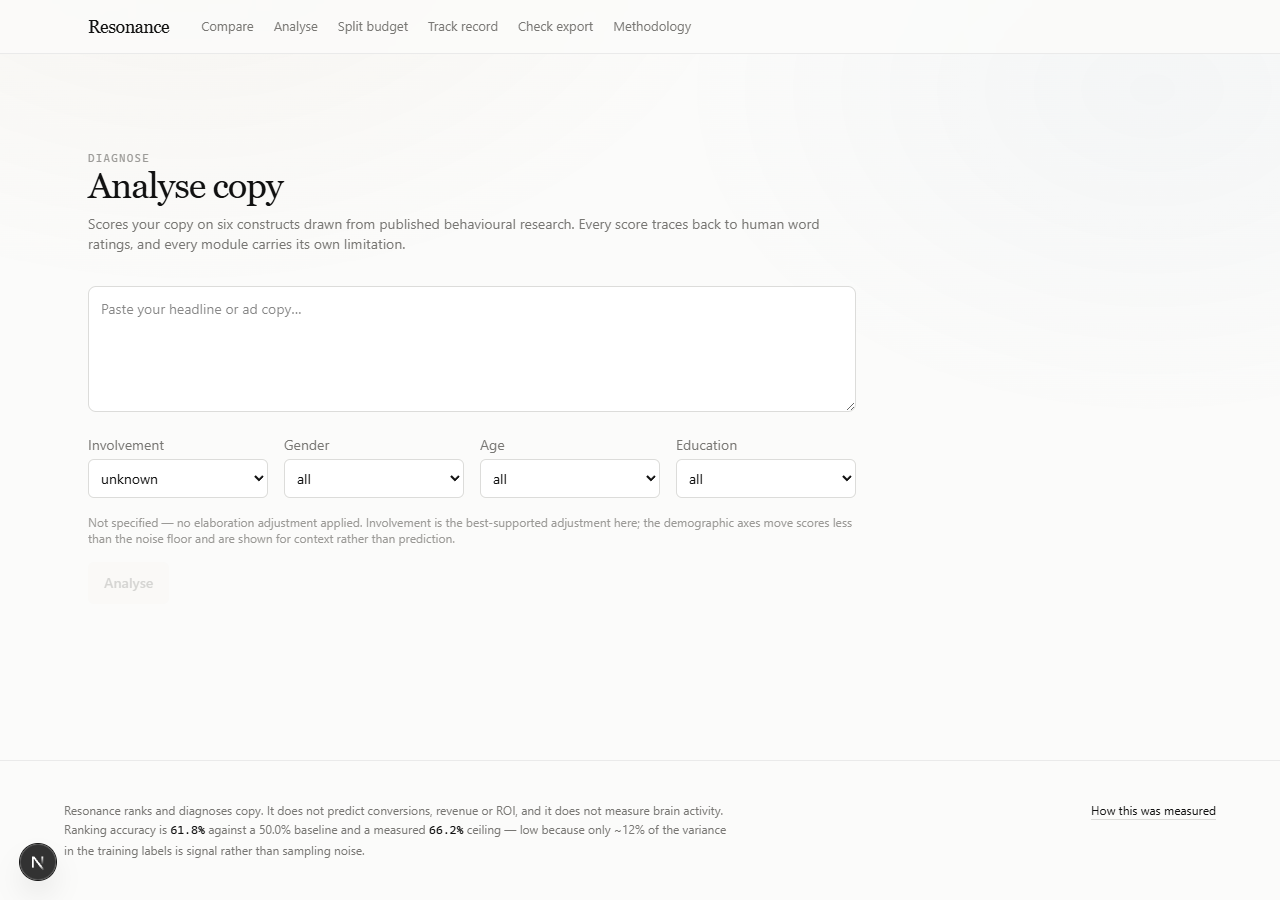
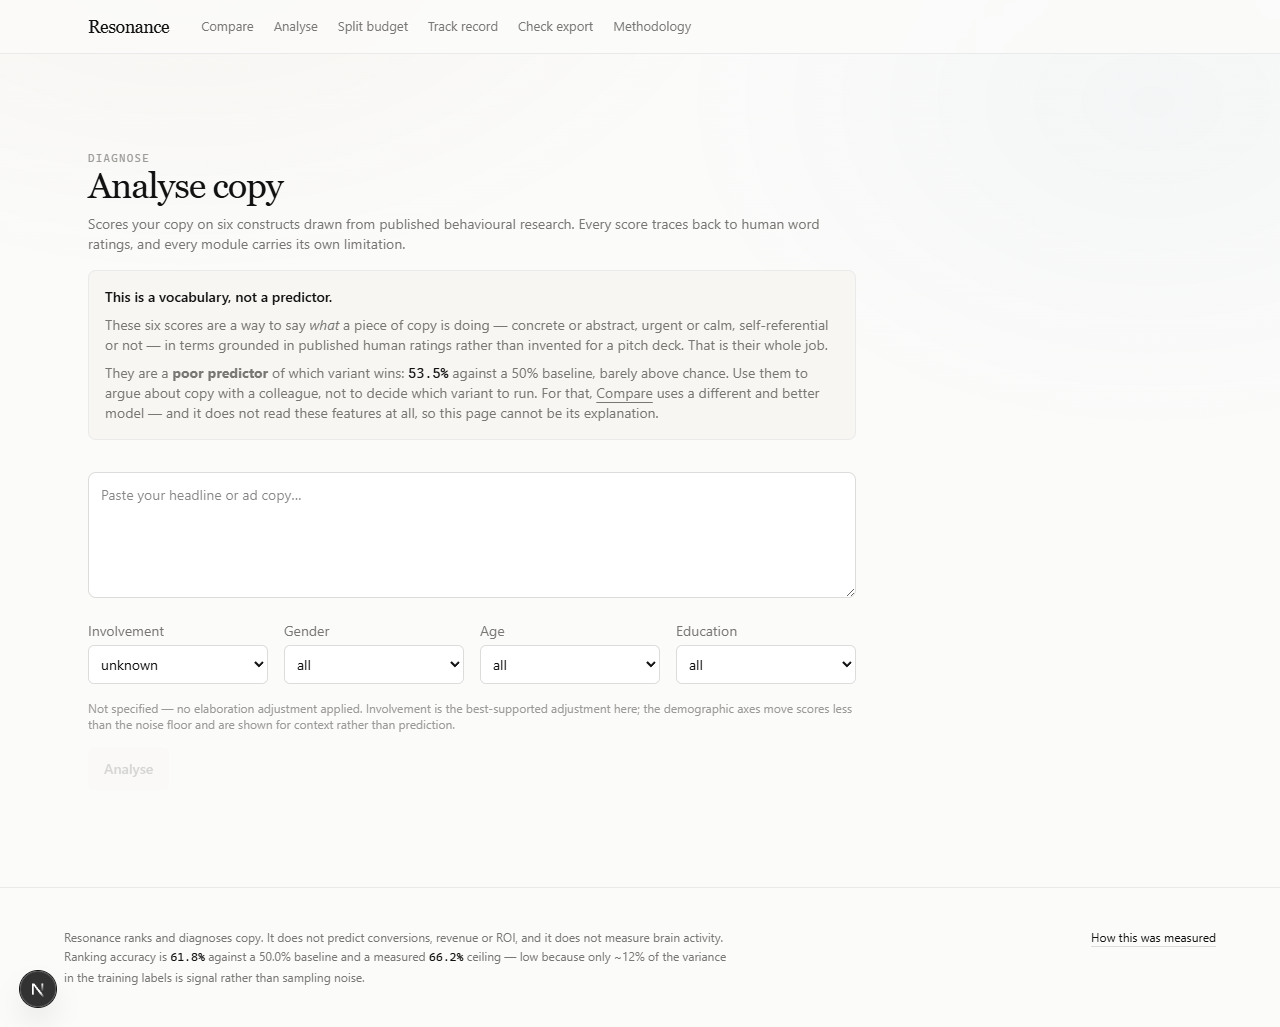
Phase A: say the awkward things where people actually meet them
Three honesty repairs from the council. No model code touched.

FOUND WHILE DOING A1: THE ABSTENTION RATE WAS WRONG. The brief I gave the
council said the app declines ~75% of comparisons. It declines ~50%.
Coverage in the tier table is cumulative, and the model answers at the
moderate tier as well as the high one — I had read "the confident 25%" as
"only answers 25%". Two advisors reasoned from that figure; the Outsider's
"three times out of four it just shrugs" was aimed at a worse product than
the one that exists. The framing critique still holds at 50%, so the fix
went ahead. ABSTAINED in ranker.ts now carries the derivation and the note,
so the mistake is not repeated from the same table.

A1, abstention reframed rather than softened. The guidance no longer opens
with "insufficient confidence" — a phrase that reads as the tool failing —
but with what was actually established: these two are within noise of each
other, so either is defensible and the difference is not worth a test.
Added the counterfactual, measured rather than asserted: forced to guess on
the pairs it declines, the model scores 56.3%, six points above a coin.
That is the honest content of an abstention — not "I have nothing", but
"what I have here is too weak to spend on". Derived by difference from the
dev curve: 14,791 pairs at 62.9% minus 7,397 answered at 69.5% leaves 7,394
declined at 56.3%. The rate is now stated on the home page instead of being
discovered by hitting it.
[…]

diff --git a/resonance/lib/inference/ranker.ts b/resonance/lib/inference/ranker.ts
@@ -241,6 +241,31 @@ export const TIERS: TierSpec[] = [
   { tier: "moderate", minMargin: 0.519, accuracy: 0.6951, coverage: 0.5 },
 ];
 
+/**
+ * The half of comparisons the model declines, and what declining is worth.
+ *
+ * Coverage is CUMULATIVE in the table above: 50% of comparisons clear the
+ * moderate threshold, so the model answers half and declines half. It is not
+ * "answers a quarter" — that is the high tier alone, and confusing the two
+ * understates the product by a factor of two. It was briefly stated that way in
+ * planning and the error is recorded here so it is not repeated.
+ *
+ * `accuracyIfForced` is derived from the same dev curve, by difference:
+ *
+ *     all      14,791 pairs @ 0.6289  ->  9,302 correct
+ *     answered  7,397 pairs @ 0.6951  ->  5,143 correct
+ *     declined  7,394 pairs           ->  4,159 correct  =  0.5626
+ *
+ * That is the number the abstention is worth arguing about. Forced to guess on
+ * the pairs it declines, the model manages 56.3% — six points above a coin, not
+ * zero. Abstaining is not "the model has nothing"; it is "what the model has
+ * here is too weak to spend money on".
+ */
+export const ABSTAINED = {
+  coverage: 0.5,
+  accuracyIfForced: 0.5626,
+} as const;
+
 function classify(margin: number): TierSpec | null {
   for (const t of TIERS) if (margin >= t.minMargin) return t;
   return null;
@@ -263,9 +288,16 @@ export async function rankVariants(texts: string[]): Promise<RankingResult> {
       `this clear-cut the model is right ${(spec.accuracy * 100).toFixed(0)}% of ` +
       `the time — measured, not estimated. Roughly ${(spec.coverage * 100).toFixed(0)}% ` +
       "of comparisons reach this confidence level."
-    : "These variants score too closely to separate. At margins this small the " +
-      "model is near chance, so the honest answer is that we cannot tell them " +
-      "apart — pick on other grounds, or run a live test.";
+    : // Lead with what WAS established. "Insufficient confidence" reads as the
+      // tool failing; "these are within noise of each other" is the same fact
+      // stated as a finding, which is what it actually is.
+      "These two are within noise of each other. The model can separate about " +
+      `${(ABSTAINED.coverage * 100).toFixed(0)}% of comparisons; this is not one ` +
+      "of them, so either choice is defensible and the difference is unlikely " +
+      "to be worth a test. Forced to guess on pairs like these it manages " +
+      `${(ABSTAINED.accuracyIfForced * 100).toFixed(0)}% — better than a coin, ` +
+      "not enough to spend on. Pick on brand, clarity or gut, and put the test " +
+      "budget somewhere it will settle something.";
 
   return {
     ranked,

diff --git a/resonance/app/page.tsx b/resonance/app/page.tsx
@@ -1,6 +1,6 @@
 import Link from "next/link";
 import { PERFORMANCE, PROHIBITED_CLAIMS } from "@/lib/constructs";
-import { TIERS } from "@/lib/inference/ranker";
+import { ABSTAINED, TIERS } from "@/lib/inference/ranker";
 
 /**
  * The pitch.
@@ -205,17 +205,31 @@ export default function Home() {
           </div>
 
           <div className="card p-7 sm:p-8">
-            <span className="tag tag-green self-start">Knows when it knows</span>
+            <span className="tag tag-green self-start">
+              It declines half the time
+            </span>
             <p className="mt-5 text-sm leading-relaxed text-muted">
-              On the{" "}
+              Said here rather than left for you to discover: the model answers
+              about{" "}
+              <span className="numeric text-ink">
+                {Math.round((1 - ABSTAINED.coverage) * 100)}%
+              </span>{" "}
+              of comparisons and declines the other half. On the widest-margin{" "}
               <span className="numeric text-ink">
                 {Math.round(highTier.coverage * 100)}%
               </span>{" "}
-              of comparisons where the margin is widest, accuracy rises to{" "}
-              <span className="numeric text-ink">{pct(highTier.accuracy)}</span>.
-              On the rest it declines to call it. A tool that abstains on the
-              hard cases is worth more than one that guesses confidently on all
-              of them.
+              it is right{" "}
+              <span className="numeric text-ink">{pct(highTier.accuracy)}</span>{" "}
+              of the time.
+            </p>
+            <p className="mt-3 text-sm leading-relaxed text-muted">
+              Declining is a result, not a failure. Forced to guess on the pairs
+              it passes on, it would score{" "}
+              <span className="numeric text-ink">
+                {pct(ABSTAINED.accuracyIfForced)}
+              </span>{" "}
+              — better than a coin, and nowhere near enough to spend a test
+              budget on. Being told which half is which is the point.
             </p>
           </div>
         </div>

diff --git a/resonance/app/analyse/page.tsx b/resonance/app/analyse/page.tsx
@@ -1,6 +1,8 @@
 "use client";
 
+import Link from "next/link";
 import { useState } from "react";
+import { PERFORMANCE } from "@/lib/constructs";
 import type { AnalysisResult, VariantComparison } from "@/lib/analyse";
 
 type ApiResponse =
@@ -86,6 +88,33 @@ export default function AnalysePage() {
           research. Every score traces back to human word ratings, and every
           module carries its own limitation.
         </p>
+
+        {/* Written because a reviewer with no context asked, reasonably, why a
+            53.5% feature that admits it does not explain the ranking ships at
+            all. If the answer cannot be stated in a sentence, the feature
+            should be cut instead. */}
+        <div className="mt-4 rounded-lg border border-rule bg-sunk p-4 text-sm">
+          <p className="font-medium">This is a vocabulary, not a predictor.</p>
+          <p className="mt-2 text-muted">
+            These six scores are a way to say <em>what</em> a piece of copy is
+            doing — concrete or abstract, urgent or calm, self-referential or
+            not — in terms grounded in published human ratings rather than
+            invented for a pitch deck. That is their whole job.
+          </p>
+          <p className="mt-2 text-muted">
+            They are a <strong>poor predictor</strong> of which variant wins:{" "}
+            <span className="numeric text-ink">
+              {(PERFORMANCE.moduleModelAccuracy * 100).toFixed(1)}%
+            </span>{" "}
+            against a 50% baseline, barely above chance. Use them to argue about
+            copy with a colleague, not to decide which variant to run. For that,{" "}
+            <Link href="/compare" className="underline underline-offset-4">
+              Compare
+            </Link>{" "}
+            uses a different and better model — and it does not read these
+            features at all, so this page cannot be its explanation.
+          </p>
+        </div>
       </div>
 
       <section className="space-y-4">

diff --git a/resonance/app/compare/page.tsx b/resonance/app/compare/page.tsx
@@ -105,6 +105,39 @@ export default function ComparePage() {
           the time against a 50% baseline — an edge worth having before you
           spend media budget, not a substitute for testing.
         </p>
+
+        {/* The question a first-time user actually asks, answered where they
+            ask it. The README states the limitation but never answered it, and
+            a limitation without an answer just reads as a disclaimer. */}
+        <details className="mt-4 rounded-lg border border-rule bg-sunk p-4 text-sm">
+          <summary className="cursor-pointer font-medium">
+            That training data is 2013–15 clickbait. Why would it apply to my
+            copy?
+          </summary>
+          <div className="mt-3 space-y-2 text-muted">
+            <p>
+              It might not, and we have not measured whether it does. That is
+              the honest answer.
+            </p>
+            <p>
+              What plausibly carries across is the mechanics — concreteness,
+              specificity, curiosity, how a claim is framed — because those are
+              properties of language rather than of Upworthy. What almost
+              certainly does not carry is the calibration: the score thresholds
+              were fitted to that audience clicking those articles in that
+              decade.
+            </p>
+            <p>
+              So treat the ranking as a prior, not a verdict, and settle it with
+              evidence from your own campaigns.{" "}
+              <Link href="/track" className="underline underline-offset-4">
+                Seal a few predictions
+              </Link>{" "}
+              and after about ten resolved outcomes you stop guessing about
+              transfer and start measuring it.
+            </p>
+          </div>
+        </details>
       </div>
 
       <section className="space-y-3">

diff --git a/docs/COUNCIL_ACTIONS.md b/docs/COUNCIL_ACTIONS.md
@@ -17,9 +17,9 @@ says. Anything that is neither waits.
 |---|---|---|---|
 | 1 | No decision rule for the study | Fix | **Done** — `docs/PREREGISTRATION.md` |
 | 2 | Sampling fails the project's own standards | Fix | **Done** — §7, plus instrument now records experience |
-| 3 | Abstention *reads* as failure | Fix | Phase A |
-| 4 | Domain transfer never explained to a user | Fix | Phase A |
-| 5 | Diagnostic layer undefended | Decide | Phase A |
+| 3 | Abstention *reads* as failure | Fix | **Done** — and the rate was 50%, not 75% |
+| 4 | Domain transfer never explained to a user | Fix | **Done** — answered on /compare and in README |
+| 5 | Diagnostic layer undefended | Decide | **Done** — kept, justified on /analyse |
 | 6 | Unsigned binary scares people off | Fix, later | Phase C |
 | 7 | Pivot to "the notary is the product" | **Reject** | Not doing — reasoning below |
 | 8 | Recruit participants | Do | Phase B |
@@ -50,8 +50,16 @@ as the product failing.
   discover it by hitting it. A tool that says "I answer about a quarter of
   comparisons, and I'm right 76% of the time when I do" is honest; one that
   quietly shrugs feels broken.
-- Add the counterfactual: an unfiltered guess on those pairs would be right
-  ~55% of the time. Abstaining is worth more than that guess.
+- Add the counterfactual: measured at **56.3%**, six points above a coin.
+  Abstaining is not "the model has nothing"; it is "what it has here is too
+  weak to spend on".
+
+**Correction found while doing this.** The brief given to the council said the
+app abstains on ~75% of comparisons. It is ~50%: coverage in the tier table is
+cumulative, and the model answers at both the high AND moderate tiers. The
+Outsider's "three times out of four it just shrugs" was answering a worse
+product than the one that exists. The framing critique still stands at 50%,
+which is why this was fixed rather than dismissed.
 
 **Not doing:** lowering the abstention thresholds to answer more often. That
 trades calibration for the appearance of usefulness, which is the exact swap

diff --git a/README.md b/README.md
@@ -66,6 +66,33 @@ calculation was fixed before collection — ≈560 answered items, 10 participan
 
 Whatever it returns gets published here, including the outcome where humans win.
 
+## "That's 2013–15 clickbait. Why would it apply to my copy?"
+
+The most reasonable objection anyone raises, and it deserves an answer rather
+than a disclaimer.
+
+**It might not, and we have not measured whether it does.**
+
+What plausibly transfers is the mechanics — concreteness, specificity,
+curiosity, how a claim is framed — because those are properties of language
+rather than of Upworthy. What almost certainly does not transfer is the
+**calibration**: the thresholds were fitted to that audience, clicking those
+articles, in that decade.
+
+So the ranking is a prior, not a verdict. The way to stop guessing about this is
+to seal a few predictions on your own campaigns and look at the track record
+after about ten resolved outcomes. That feature exists precisely because this
+question cannot be answered from our side.
+
+## It declines about half the time
+
+Also worth knowing before you install anything. The model answers roughly **50%**
+of comparisons and says "too close to call" on the rest.
+
+That is a result, not a malfunction. Forced to guess on the pairs it passes on,
+it would score **56.3%** — better than a coin, and nowhere near enough to justify
+spending a test budget. Knowing which half is which is most of the value.
+
 ## Two layers, deliberately separate
 
 1. **The ranker** predicts. It reads sentence embeddings, scores 61.8%, and
